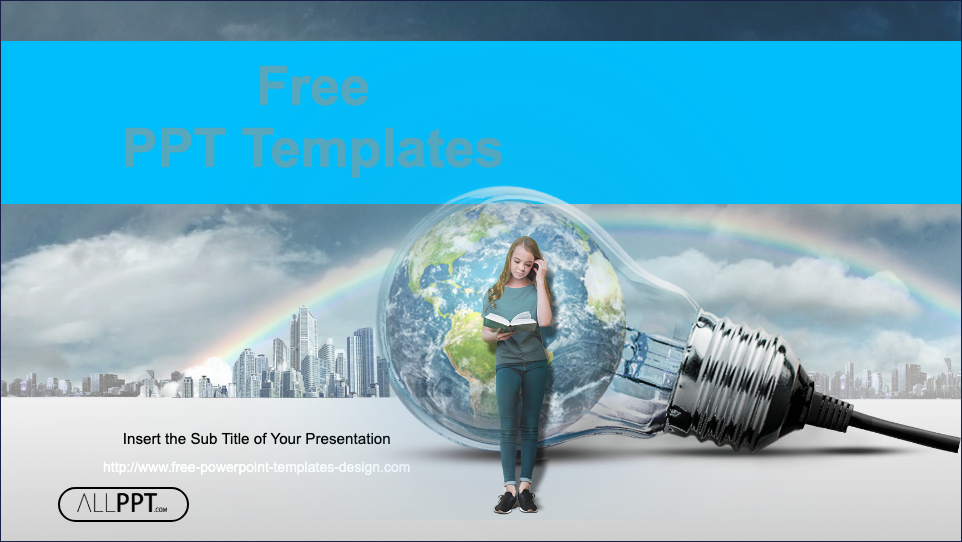
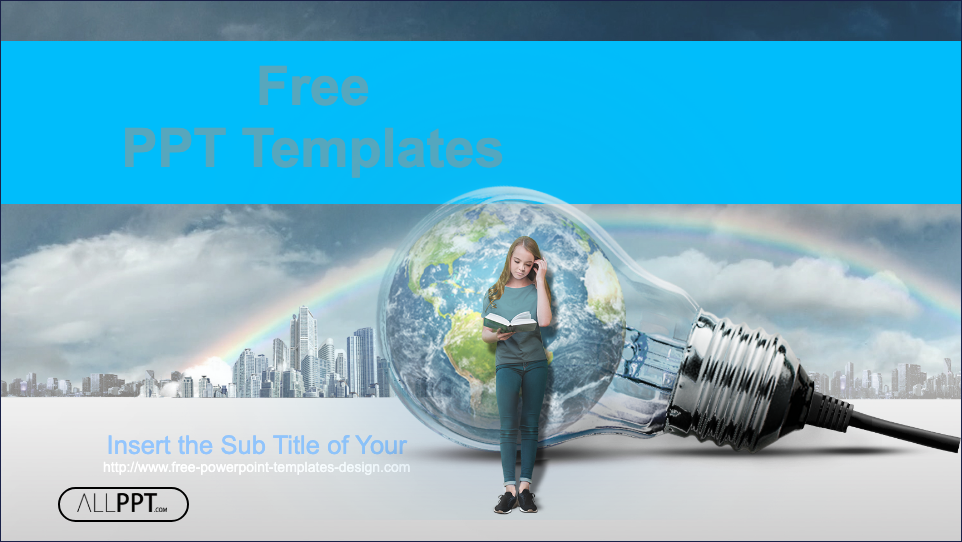
Separate subtitle and footer roles on PPT cover slides
The ongoing image-driven PPT sample loop showed that cover-slide subtitles and
footer-like elements were still occasionally competing for the same role in the
viewer logic. This stage tightens the footer heuristic so the second principal
text block stays a subtitle unless it is truly footer-sized, then refreshes the
screenshot evidence to reflect the safer cover-slide hierarchy.

Constraint: The paired PNG corpus is the regression oracle, so cover-slide hierarchy changes must be verified through regenerated screenshot artifacts
Constraint: Subtitle/footer separation must remain narrow enough not to disturb the already-stable non-cover slides
Rejected: Keep using a broad last-text-box-is-footer rule | it continued to misclassify cover-slide subtitle blocks
Rejected: Leave the refreshed screenshot evidence uncommitted | it would weaken the provenance of this hierarchy tweak
Confidence: medium
Scope-risk: narrow
Reversibility: clean
Directive: Distinguish subtitle and footer roles on cover slides by both position and scale, not by order alone
Tested: npm run build --workspace @ooxml/example-basic; npm run quality:ppt-sample-screenshots; score snapshot avg 84.68 / min 76.78 / max 89.95
Not-tested: Full repo verification suite and the remaining LLM-vision mismatches on hero slides

Changed region(s): [[0.0936, 0.797, 0.4366, 0.8561]]

diff --git a/examples/basic/src/main.ts b/examples/basic/src/main.ts
@@ -796,9 +796,10 @@ function enhancePresentationPreview(): void {
       if (rank === undefined) {
         continue;
       }
+      const footerLike = y / cy > 0.82 && fontSizePt > 0 && fontSizePt <= 12;
       if (rank === 0) {
         shape.classList.add('kind-title');
-      } else if (rank === principalOrderedShapes.length - 1 && y / cy > 0.75) {
+      } else if (rank === principalOrderedShapes.length - 1 && footerLike) {
         shape.classList.add('kind-footer');
       } else {
         shape.classList.add('kind-subtitle');
